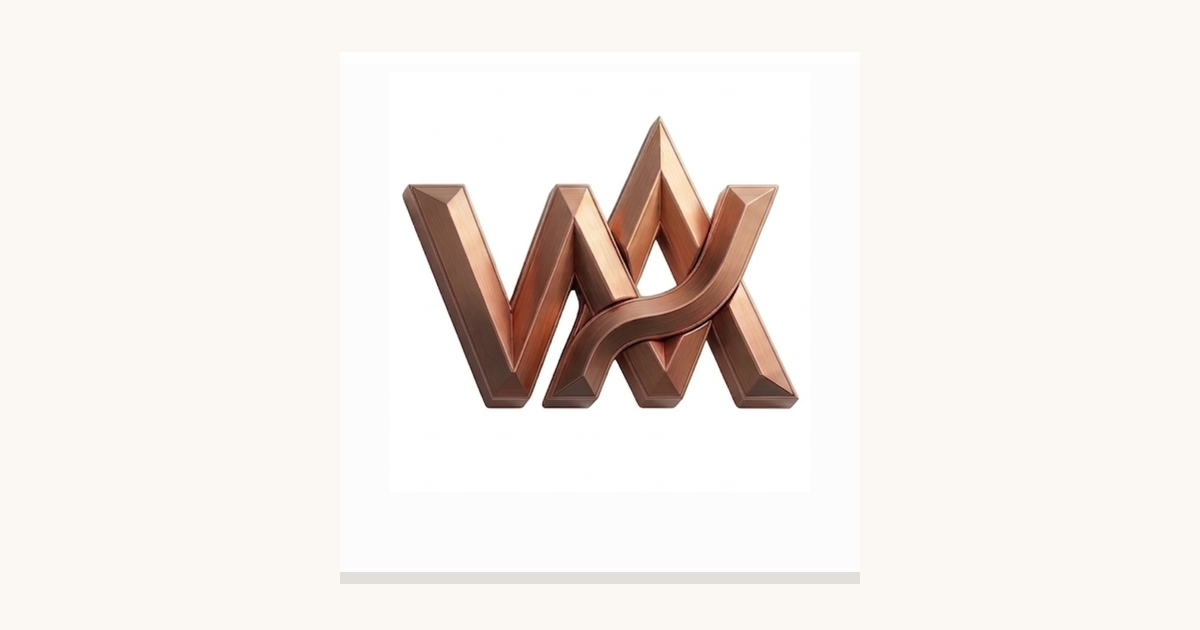
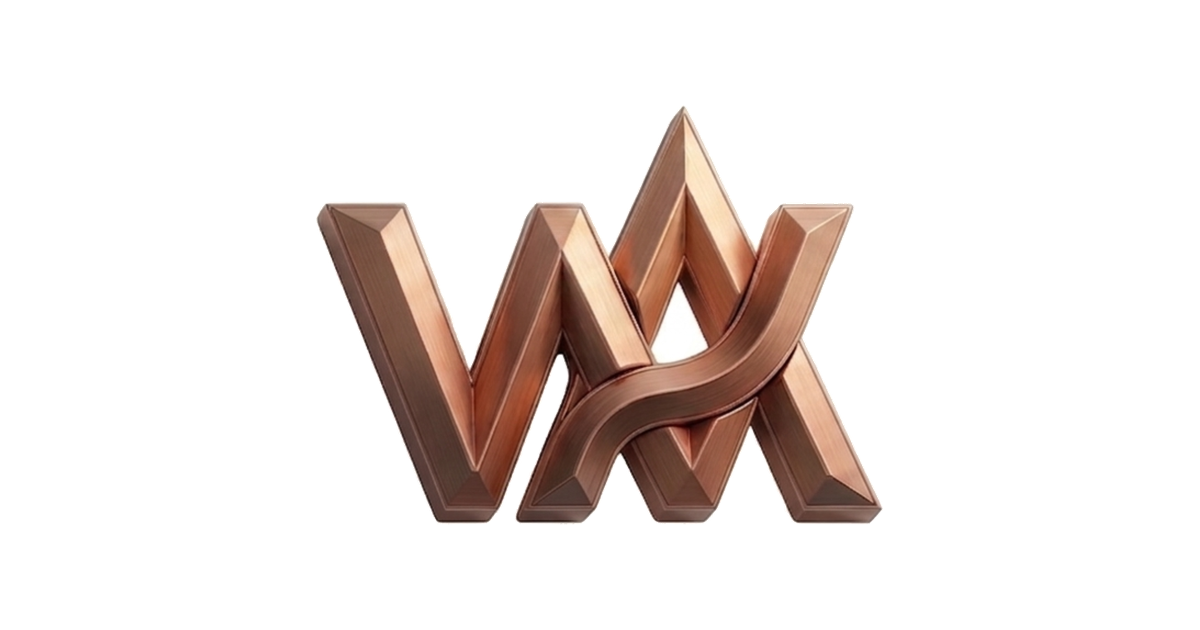
fix: make worthapply brand assets transparent

Changed region(s): [[0.2467, 0.181, 0.74, 0.8444], [0.2775, 0.9048, 0.74, 0.9349]]

diff --git a/src/app/layout.tsx b/src/app/layout.tsx
@@ -58,11 +58,11 @@ export const metadata: Metadata = {
   },
       icons: {
     icon: [
-      { url: '/favicon.svg?v=8', sizes: 'any' },
-      { url: '/favicon.png?v=8', sizes: '32x32', type: 'image/png' },
+      { url: '/favicon.svg?v=9', sizes: 'any' },
+      { url: '/favicon.png?v=9', sizes: '32x32', type: 'image/png' },
     ],
     apple: [
-      { url: '/apple-touch-icon.png?v=8', sizes: '180x180', type: 'image/png' },
+      { url: '/apple-touch-icon.png?v=9', sizes: '180x180', type: 'image/png' },
     ],
   },
   manifest: '/site.webmanifest',
